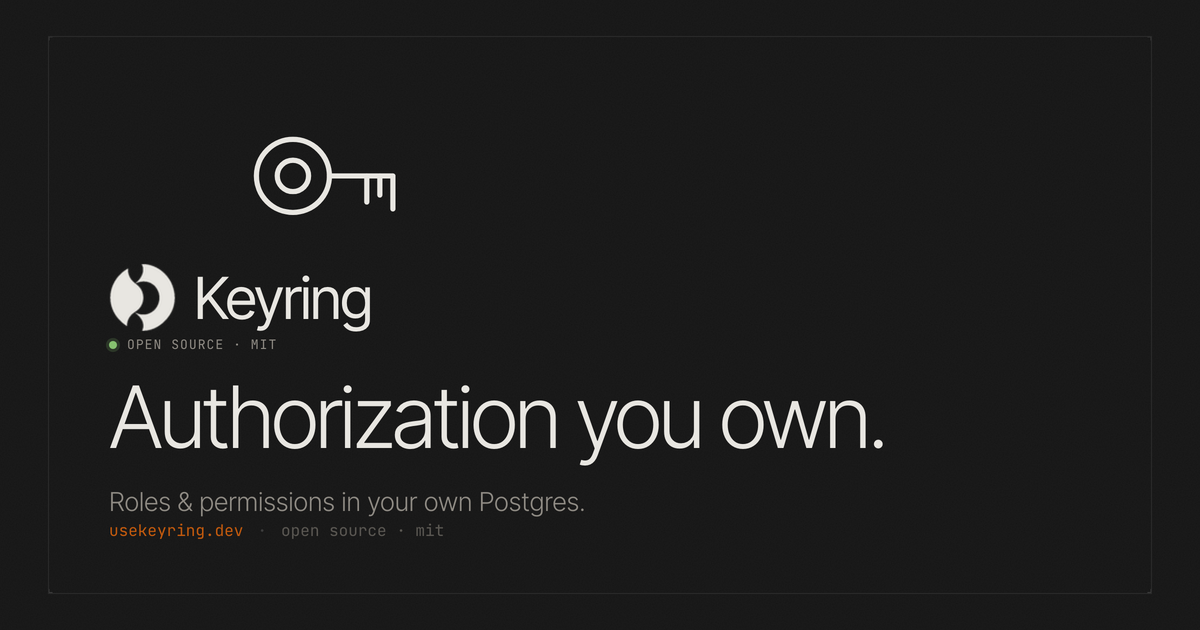
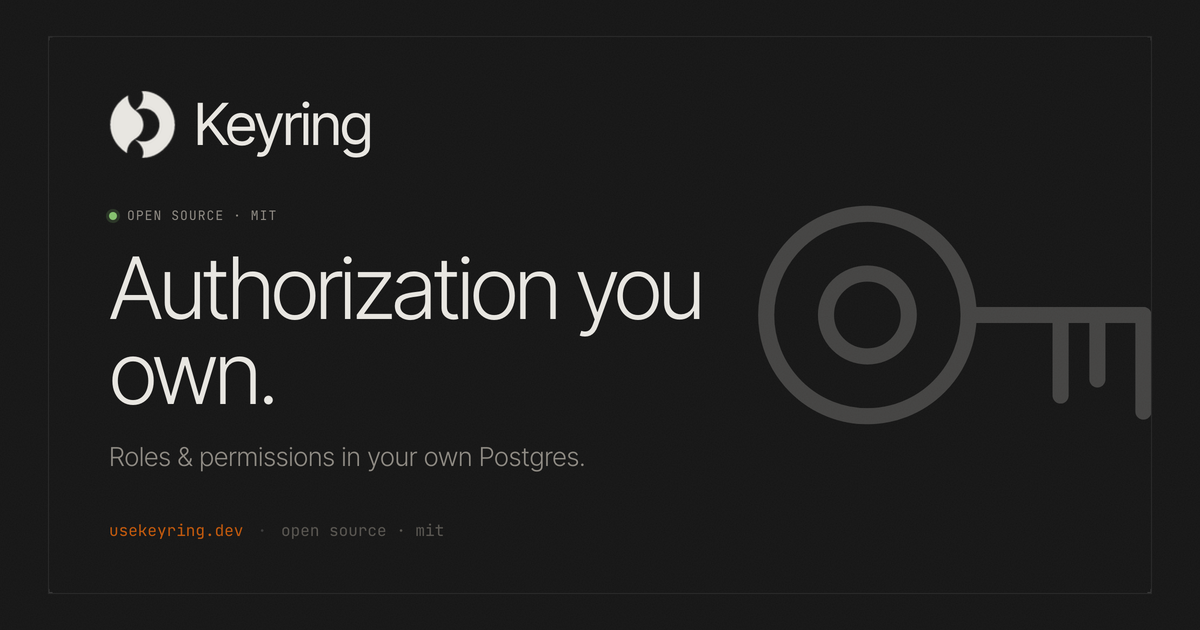
fix(web): strengthen opengraph key watermark
Raise opacity and stroke so the ghost key reads on the dark card.

diff --git a/apps/web/src/app/layout.tsx b/apps/web/src/app/layout.tsx
@@ -21,7 +21,7 @@ export const metadata: Metadata = {
       "Define actions, compose them into roles, and grant them to your product's users.",
     images: [
       {
-        url: `${siteUrl}/opengraph.png?v=7`,
+        url: `${siteUrl}/opengraph.png?v=8`,
         width: 1200,
         height: 630,
         alt: "Keyring — Access-control infrastructure for your product",
@@ -33,7 +33,7 @@ export const metadata: Metadata = {
     title: "Keyring — Access control infrastructure for your product",
     description:
       "Define actions, compose them into roles, and grant them to your product's users.",
-    images: [`${siteUrl}/opengraph.png?v=7`],
+    images: [`${siteUrl}/opengraph.png?v=8`],
   },
 };
 
